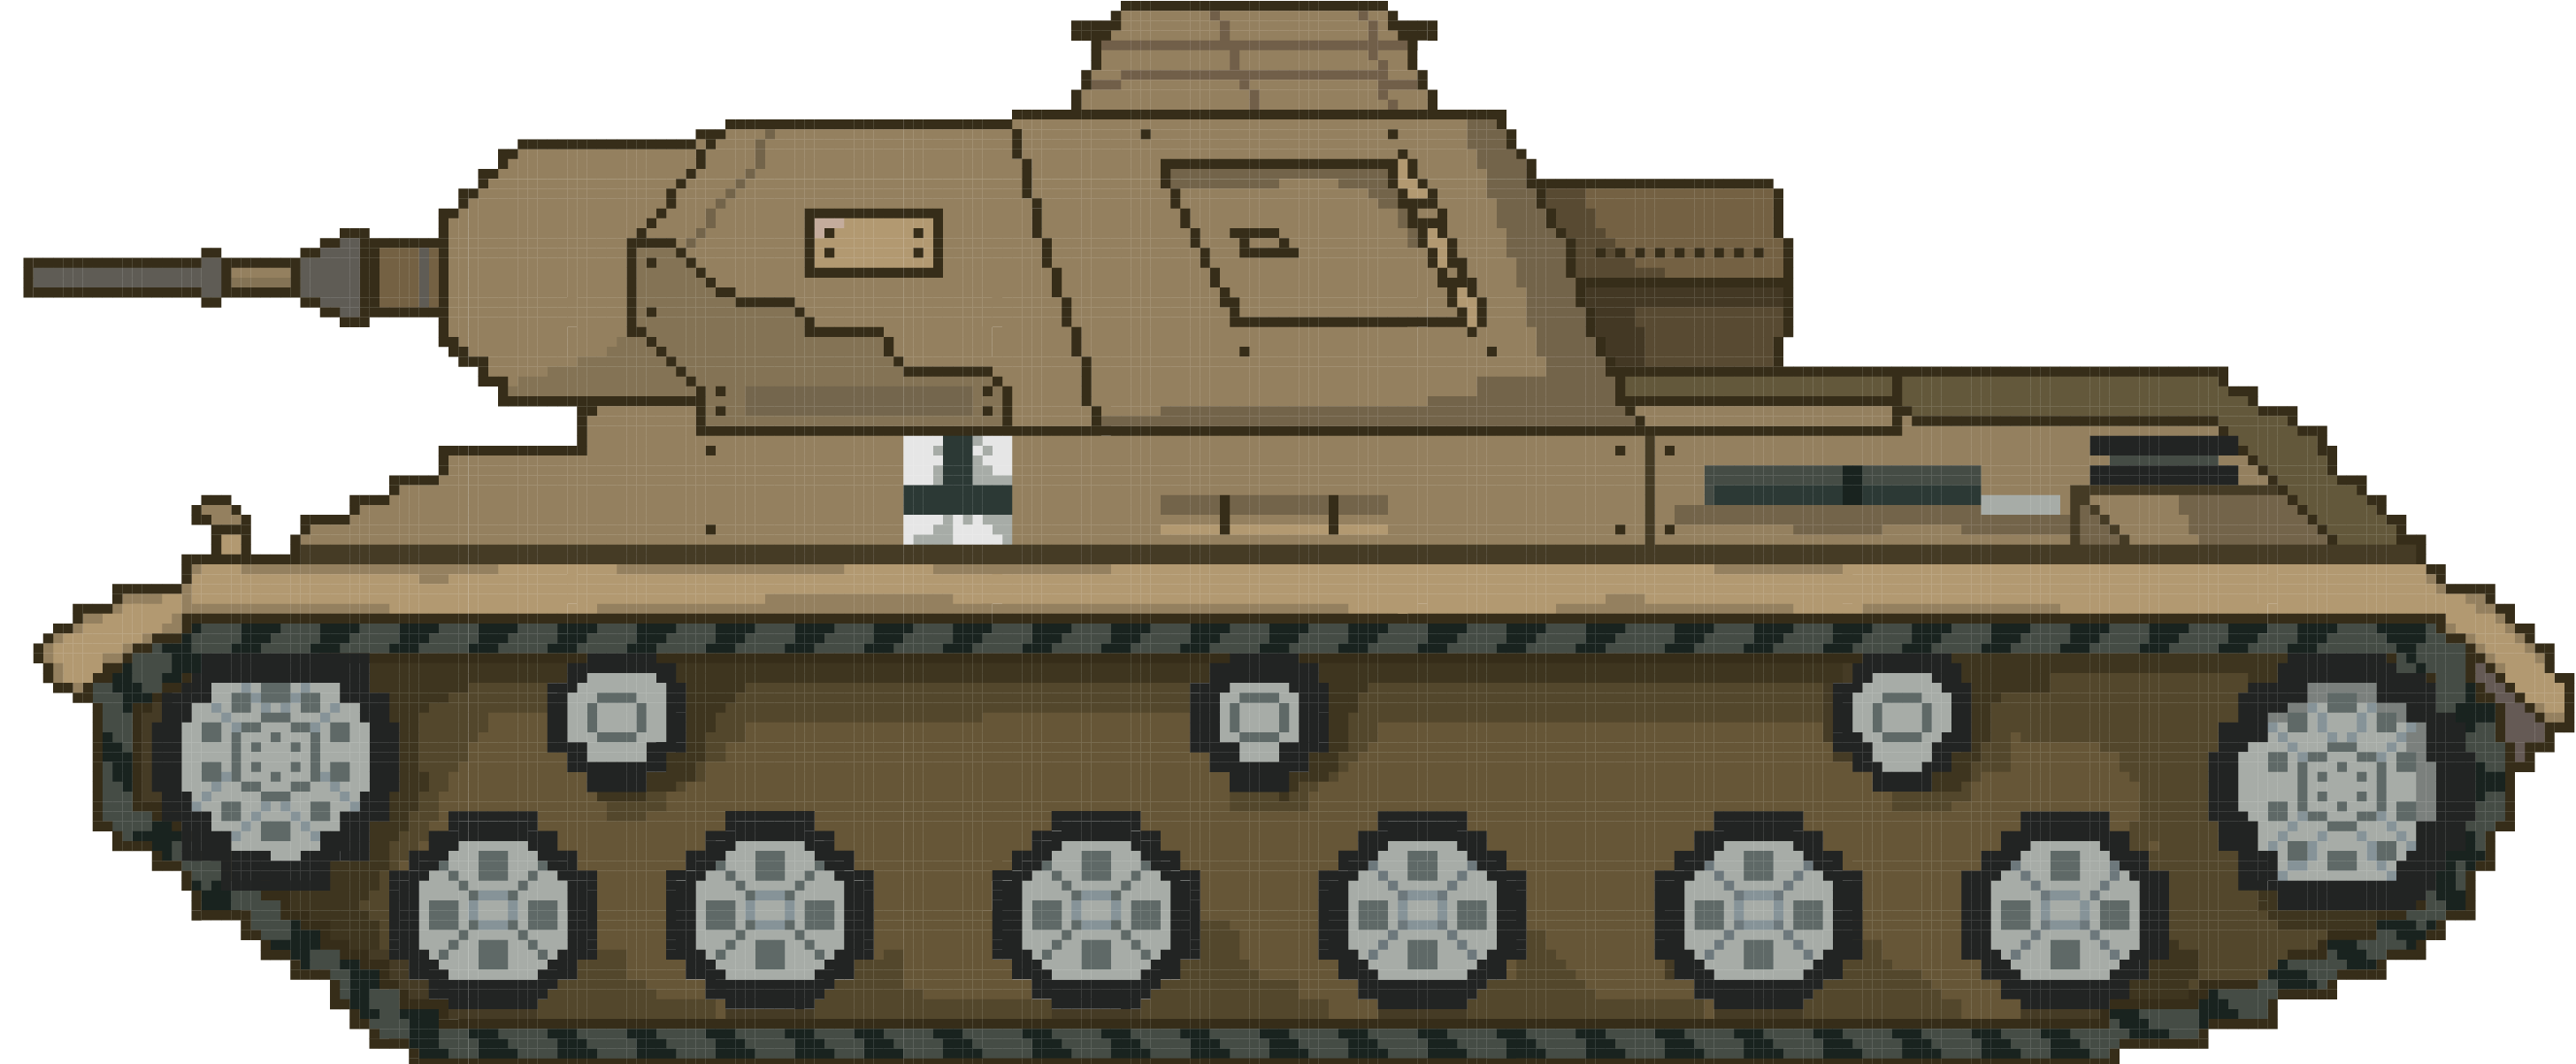
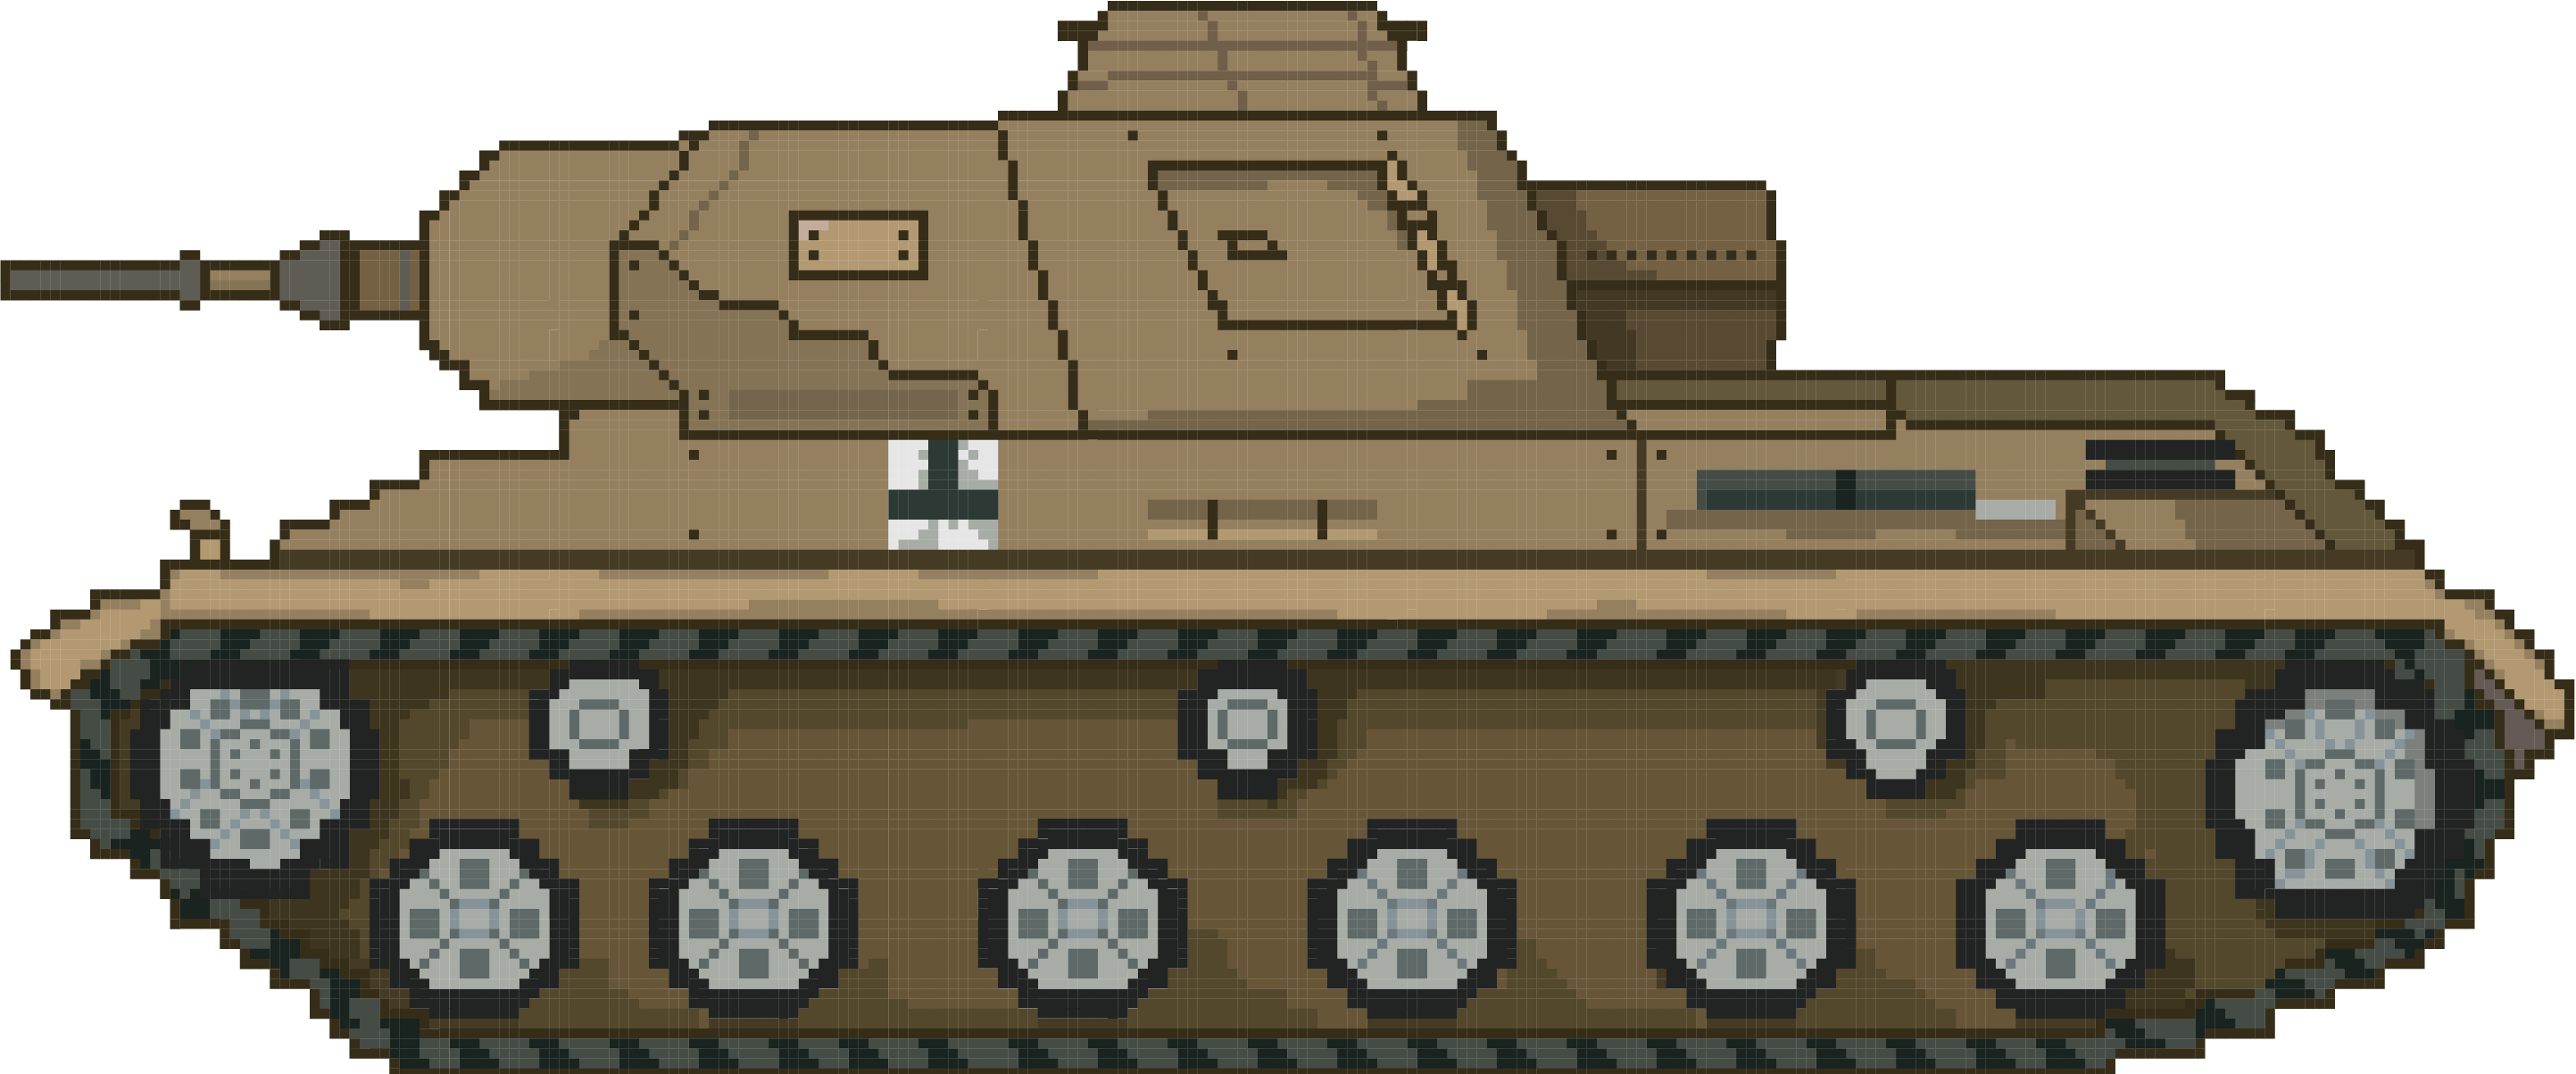
projetil funcionando

diff --git a/stalingrado/Entidades/Projetil.cpp b/stalingrado/Entidades/Projetil.cpp
@@ -1,11 +1,12 @@
 #include "Projetil.hpp"
 #include "../Jogo.hpp"
+#include "Personagens/Jogador.hpp"
 
 namespace Stalingrado {
 
 namespace Entidades{
 
-Projetil::Projetil() : Entidade("Projetil"), ativo(false), vel_x(0), vel_y(0), vel_projetil(250.f){
+Projetil::Projetil() : Entidade("Projetil"), ativo(false), vel_x(0), vel_y(0), vel_projetil(500.f), dt_exist(0){
 
 }
 
@@ -13,9 +14,13 @@ Projetil::~Projetil(){
 
 }
 
+void Projetil::danificar(Personagens::Jogador *pJ){
+    pJ->operator-=(5.f);
+    destruir();
+}
 
 void Projetil::setPosition(float x, float y){
-
+    personagem.setPosition(x, y);
 }
 
 void Projetil::ativar(){
@@ -23,16 +28,21 @@ void Projetil::ativar(){
 }
 void Projetil::destruir(){
     ativo = false;
+    dt_exist = 0;
     personagem.setPosition(-100.f,0.f);
 }
 void Projetil::executar(){
     if(ativo){
         float dx = 0, dy = 0, dt = 0;
         dt = Jogo::getDt();
-        vel_y = vel_y + 200.f*dt;
+        dt_exist += dt;
+        vel_y = vel_y + 50.f*dt;
         dx = vel_x*dt;
         dy = vel_y*dt;
         movePos(dx, dy);
+    }
+    if(dt_exist > 7.5f){
+        destruir();
     }
 }
 void Projetil::salvar(){

diff --git a/stalingrado/Gerenciadores/Gerenciador_colisoes.cpp b/stalingrado/Gerenciadores/Gerenciador_colisoes.cpp
@@ -224,7 +224,7 @@ void Gerenciador_Colisoes::tratarColisoesJogsInimigos(){
     //Chama a verificarColisao, se for true arruma a pos
     Personagem *jog1 = static_cast<Personagem*>(pJog1);
     Personagem *jog2 = static_cast<Personagem*>(pJog2);
-    float rangeDano[2] = {15.f, 1000.f}; // primeiro valor p inimigo comum, segundo p chefao (range para atirar projetil)
+    float rangeDano[2] = {15.f, 1500.f}; // primeiro valor p inimigo comum, segundo p chefao (range para atirar projetil)
     colisoesChao(jog1);
     colisaoBorda(jog1);
     if(pJog2){
@@ -276,16 +276,22 @@ void Gerenciador_Colisoes::colisaoBorda(Personagem *pP){
 void Gerenciador_Colisoes::tratarColisoesJogsProjeteis(){
     //Chama a verificarColisao, se for true arruma a pos
     for(set<Projetil*>::iterator it = LPs.begin(); it != LPs.end(); it++){
+        //verificar colisao com chao
+        if(verificarColisao(static_cast<Entidades::Entidade*>(*it), static_cast<Entidades::Entidade*>(chao))){
+            (*it)->destruir();
+        }
         if(verificarColisao(static_cast<Entidade*>(pJog1), static_cast<Entidade*>(*it))){
             //Se colidir, dá dano ao jogador e destroi o projetil
-            resolverColisaoCinematica(pJog1, *it);
+            //resolverColisaoCinematica(pJog1, *it);
             //Precisa executar o projetil, dar dano ao jogador e destruir o projetil
+            (*it)->danificar(pJog1);
         }
         if(pJog2){
             if(verificarColisao(static_cast<Entidade*>(pJog2), static_cast<Entidade*>(*it))){
                 //Se colidir, dá dano ao jogador e destroi o projetil
-                resolverColisaoCinematica(pJog2, *it);
+                //resolverColisaoCinematica(pJog2, *it);
                 //Precisa executar o projetil, dar dano ao jogador e destruir o projetil
+                (*it)->danificar(pJog2);
             }
         }
     }

diff --git a/stalingrado/Entidades/Projetil.hpp b/stalingrado/Entidades/Projetil.hpp
@@ -4,15 +4,20 @@
 namespace Stalingrado {
 
 namespace Entidades{
+namespace Personagens{
+class Jogador;
+}
 class Projetil : public Entidade{
 protected:
     bool ativo;
     float vel_x;
     float vel_y;
     const float vel_projetil;
+    float dt_exist;
 public:
     Projetil();
     ~Projetil();
+    void danificar(Personagens::Jogador *pJ);
     void executar();
     void salvar();
     void movePos(float x, float y);

diff --git a/stalingrado/Entidades/Personagens/Inim_chefao.cpp b/stalingrado/Entidades/Personagens/Inim_chefao.cpp
@@ -50,6 +50,8 @@ namespace Stalingrado {
                 if (dt_dano > 5.0f) {
                     if(!(proj_chefao->isAtivo())){
                         sf::Vector2f posi_ini = personagem.getPosition();
+                        posi_ini.x = posi_ini.x - 678.f;
+                        posi_ini.y = posi_ini.y - 150.f;
                         proj_chefao->setPosition(posi_ini.x, posi_ini.y);
                         sf::Vector2f posi_fin = pJ->getPos();
                         sf::Vector2f dist(posi_fin.x - posi_ini.x, posi_fin.y - posi_ini.y);

diff --git a/stalingrado/Fases/Fase_seg.cpp b/stalingrado/Fases/Fase_seg.cpp
@@ -16,7 +16,7 @@ namespace Stalingrado {
     namespace Fases {
 
         Fase_seg::Fase_seg(Entidades::Personagens::Jogador *pJogador1, Entidades::Personagens::Jogador *pJogador2) :
-        Fase(pJogador1, pJogador2, "Cenario_fase_dois"), maxInimChefoes(10), chao(NULL), maxEntulhos(20), maxExplosivos(10)
+        Fase(pJogador1, pJogador2, "Cenario_fase_dois"), maxInimChefoes(5), chao(NULL), maxEntulhos(20), maxExplosivos(10)
         {
             //Aqui eu devo criar a fase, configurar a posição de cada inimigo, jogador e obstáculo
             comprimentoFase = 10000;